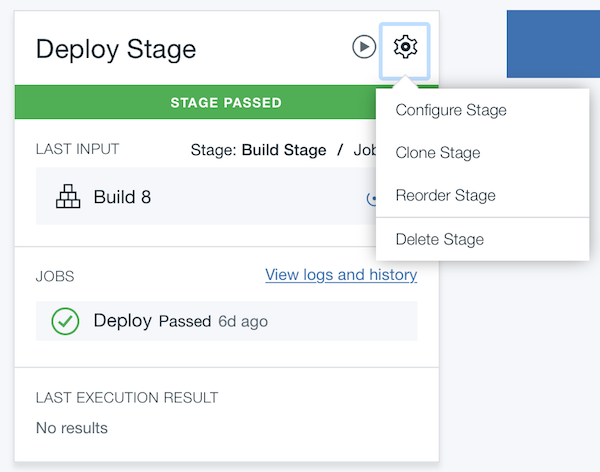
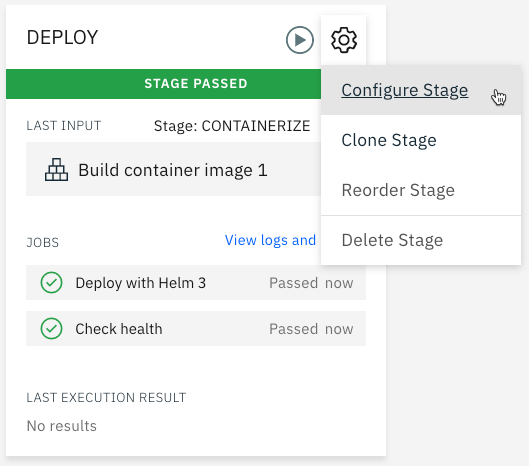
fall 2020

diff --git a/continuous-deployment-to-kubernetes.md b/continuous-deployment-to-kubernetes.md
@@ -59,21 +59,6 @@ This tutorial walks you through the process setting up a continuous integration 
 {: #continuous-deployment-to-kubernetes-prereq}
 
 This tutorial requires:
-* {{site.data.keyword.cloud_notm}} CLI,
-  * {{site.data.keyword.containerfull_notm}} plugin (`kubernetes-service`),
-  * {{site.data.keyword.registryshort_notm}} plugin (`container-registry`),
-  * `dev` plugin,
-* a Docker engine,
-* `kubectl` to interact with Kubernetes clusters,
-* `helm` to deploy charts,
-* `git` to clone source code repository,
-* {{site.data.keyword.cloud_notm}} GitLab configured with your SSH key.
-
-<!--##istutorial#-->
-You will find instructions to download and install these tools for your operating environment in the [Getting started with tutorials](/docs/solution-tutorials?topic=solution-tutorials-tutorials) guide.
-<!--#/istutorial#-->
-
-In addition, make sure you:
 - [set up a registry namespace](/docs/Registry?topic=Registry-registry_setup_cli_namespace#registry_namespace_setup)
 - and [understand the basics of Kubernetes](https://kubernetes.io/docs/tutorials/kubernetes-basics/).
 
@@ -84,18 +69,17 @@ In addition, make sure you:
 
 {{site.data.keyword.containershort_notm}} delivers powerful tools by combining Docker and Kubernetes technologies, an intuitive user experience, and built-in security and isolation to automate the deployment, operation, scaling, and monitoring of containerized apps in a cluster of compute hosts.
 
-To complete this tutorial you would need to select the **Paid** cluster of type **Standard**. You would be required to setup two clusters, one for development and one for production.
+Create a cluster
 {: shortdesc}
 
-1. Create the first development Kubernetes cluster from the [{{site.data.keyword.Bluemix}} catalog](https://{DomainName}/kubernetes/catalog/cluster/create). Later you will be required to repeat these steps and create a production cluster.
-
-   For ease of use, check the configuration details like the number of CPUs, memory and the number of worker nodes you get.
-   {:tip}
-
-   ![Configuration dialog for Kubernetes cluster](images/solution21/KubernetesPaidClusterCreation.png)
-
-2. Select the **Cluster type** and click **Create Cluster** to provision a Kubernetes cluster. The smallest **Machine type** with 2 **CPUs**, 4 **GB RAM**, and 1 **Worker Nodes** is sufficient for this tutorial. All other options can be left to their defaults.
-3. Check the status of your **Cluster** and **Worker Nodes** and wait for them to be **ready**.
+1. Open [kubernetes clusters](https://cloud.ibm.com/kubernetes/clusters) or navigate to Kubernetes > Clusters from the left hamburger navigation menu
+1. Click **Create cluster**
+1. Choose **Standard** plan, Default Kubernetes **version**, **Classic** infrastructure
+1. Choose desired resource group
+1. Choose desired Geography, Availability and Metro
+1. One zone, one worker node per zone and the smallest **flavor** with 2 **CPUs**, 4 **GB RAM**, and 1 **Worker Nodes** is sufficient for this tutorial.
+1. Master service endpoint of **Public endpoint only**
+1. Choose a cluster name that you can remember
 
 **Note:** Do not proceed until your workers are ready.
 <!--#/istutorial#-->
@@ -115,10 +99,10 @@ To complete this tutorial you would need to select the **Paid** cluster of type 
 {: #continuous-deployment-to-kubernetes-create_application}
 {: step}
 
-{{site.data.keyword.containershort_notm}} offers a selection of starter applications, these starter applications can be created using the `ibmcloud dev create` command or the web console. In this tutorial, we are going to use the web console. The starter application greatly cuts down on development time by generating application starters with all the necessary boilerplate, build and configuration code so that you can start coding business logic faster.
+{{site.data.keyword.containershort_notm}} offers a selection of starter applications to generate all the necessary boilerplate, build and configuration code so that you can start coding business logic faster.  The cloud console is used in this example but the ibmcloud cli, `ibmcloud dev create`, is also available.
 
 1. From the [{{site.data.keyword.cloud_notm}} console](https://{DomainName}), use the left side menu option and select [App Development](https://{DomainName}/developer/appservice/dashboard).
-2. Under **Starter Kits**, section click on the **Get a Starter Kit** button.
+2. Click **Starter Kits**
 3. Select the `Node.js Express App` tile, click on **Get Started** and then `Create app` to create a Node.js starter application.
 4. Enter a unique **name** for the application such as `<your-initial>-mynodestarter` and select a resource group. Then, click **Create**.
 
@@ -140,7 +124,7 @@ Now that you successfully created the starter application, you can automate its 
 The toolchain will build your application and deploy it to the cluster.
 
 1. Once the pipeline is created, click the pipeline under **Delivery Pipelines**.
-1. After the deploy stages complete, click on **View logs and history** to see the logs.
+1. After the DEPLOY stage passes, click on **View logs and history** to see the logs.
 1. Visit the URL displayed to access the application (`http://worker-public-ip:portnumber/`).
    ![Screenshot showing how to find the IP address](images/solution21/Logs.png)
 
@@ -159,7 +143,7 @@ The toolchain will build your application and deploy it to the cluster.
 1. Click on the **Delivery Pipeline** tile.
 1. Notice a new **BUILD** has started.
 1. Wait for the **DEPLOY** stage to complete.
-1. Click the application **url** under Last Execution result to view your changes live.
+1. After the DEPLOY stage passes, click on **View logs and history** to see the logs and open the application.
 
 If you don't see your application updating, check the logs of the DEPLOY and BUILD stages of your pipeline.
 
@@ -174,13 +158,14 @@ In this section, you will complete the deployment pipeline by deploying the appl
 There are [different options](https://{DomainName}/docs/solution-tutorials?topic=solution-tutorials-users-teams-applications) to handle the deployment of an application to multiple environments. In this tutorial, you will deploy the application to two different namespaces.
 
 1. Go to the toolchain you created earlier and click the **Delivery Pipeline** tile.
-1. Rename the **Deploy Stage** to `Deploy dev` by clicking on the settings icon, then **Configure Stage**.
+1. Rename the **DEPLOY** stage to `Deploy dev` by clicking on the settings icon, then **Configure Stage**.
    ![Access the settings Icon](images/solution21/deploy_stage.png)
+1. To save the changes scroll down and click **Save**
 1. Clone the **Deploy dev** stage (settings icon > Clone Stage) and name the cloned stage as `Deploy prod`.
-5. Change the **stage trigger** to `Run jobs only when this stage is run manually`.
-   ![Change the stage trigger](images/solution21/prod-stage.png)
-6. In **Environment properties**, set **CLUSTER_NAMESPACE** to **production**.
+5. On the **Input** panel change the **stage trigger** to `Run jobs only when this stage is run manually`.
+6. In **Environment properties** panel, set **CLUSTER_NAMESPACE** to **production**.
 7. **Save** the stage.
+7. Click the **Play** button on the **Deploy prod** stage just created.
 
 You now have the full deployment setup. To deploy from dev to production, you must manually run the `Deploy prod` stage. This is a simplification process stage over a more advanced scenario where you would include unit tests and integration tests as part of the pipeline.
    ![Toolchain with dev and prod stages](images/solution21/full-deploy.png)
@@ -208,6 +193,10 @@ You now have the full deployment setup. To deploy from dev to production, you mu
 In this step, you will clean up the resources to remove what you created above.
 
 - Delete the Git repository.
+  - Click on the configuration for the **BUILD** stage
+  - Select the **Input** panel
+  - Copy the Git URL and paste into a browser
+  - In the git repository: select Settings on the right then General > Advanced > Remove Project
 - Delete the toolchain.
 <!--##istutorial#-->
 - Delete the cluster.
